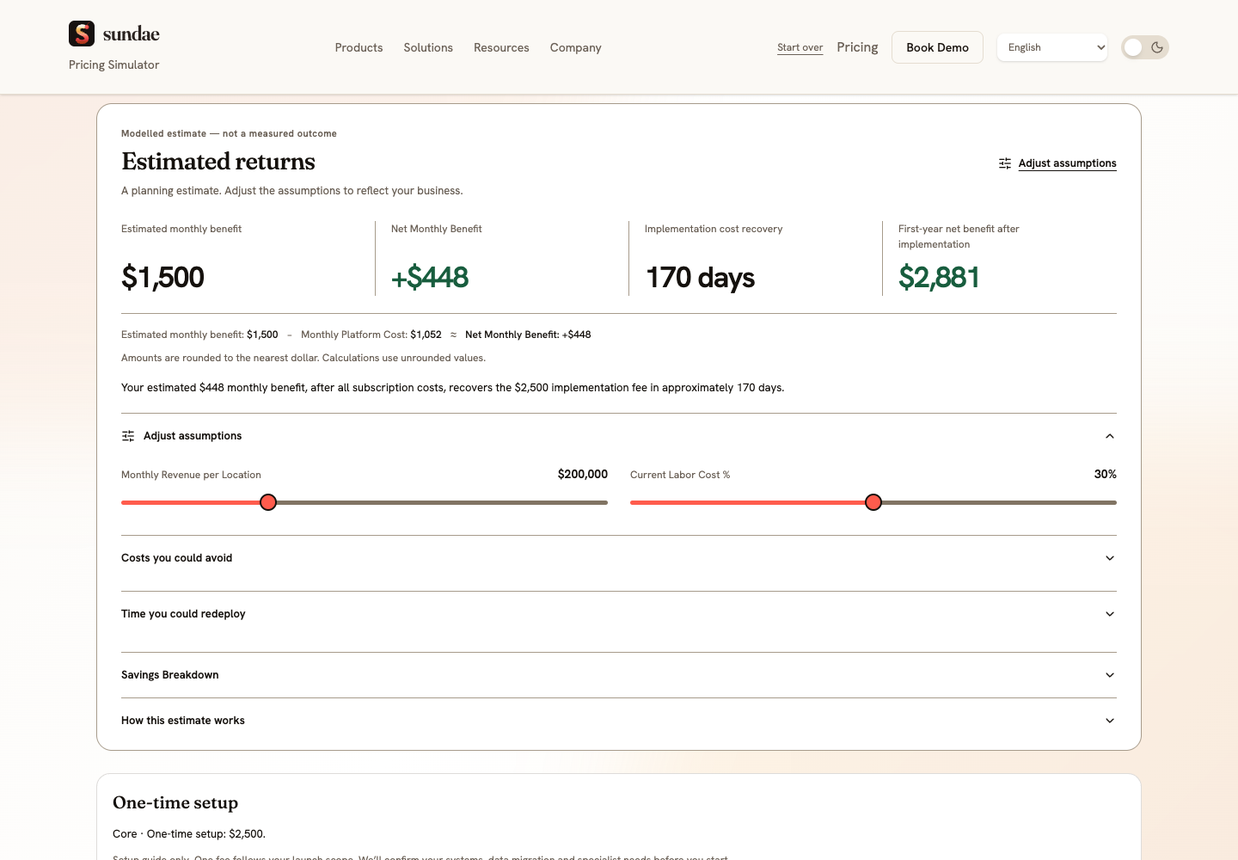
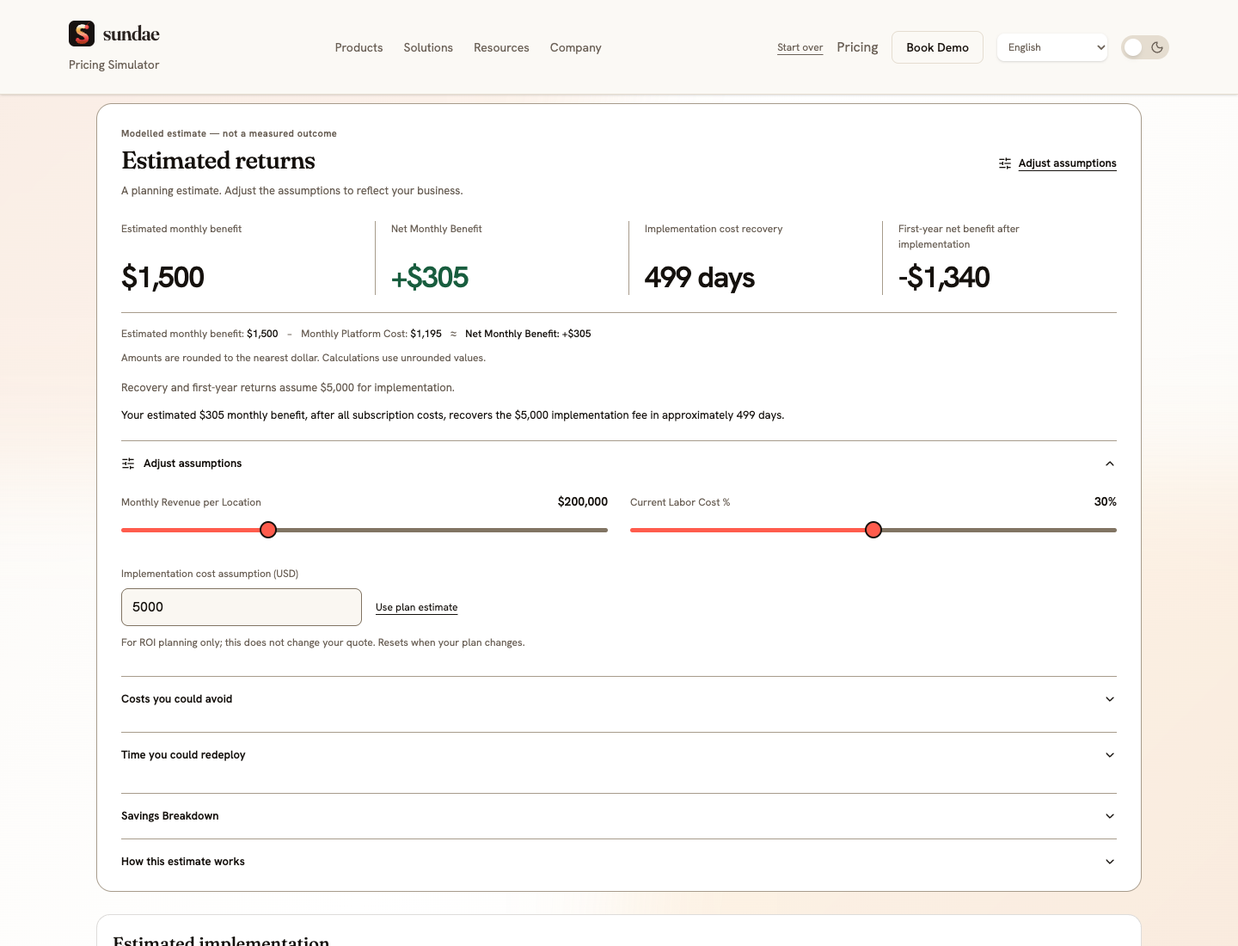
refine(pricing): separate implementation estimates from ROI assumptions (#60)

diff --git a/src/lib/implementationPlanningCopy.ts b/src/lib/implementationPlanningCopy.ts
@@ -1,0 +1,34 @@
+import type { PricingLocale } from './locales';
+
+// Estimate presentation and ROI assumptions; never changes the published fee policy.
+const packs: Record<PricingLocale, readonly [string, string, string, string, string, string, string]> = {
+  en: ['Estimated implementation', 'One shared setup fee. Final fee confirmed after reviewing your systems, migration and rollout scope.', 'Implementation cost assumption (USD)', 'For ROI planning only; this does not change your quote. Resets when your plan changes.', 'Use plan estimate', 'Recovery and first-year returns assume {fee} for implementation.', 'Enter an implementation cost assumption to estimate recovery and first-year returns.'],
+  ar: ['تكلفة التنفيذ المقدّرة', 'رسوم إعداد مشتركة واحدة. تُؤكّد الرسوم النهائية بعد مراجعة أنظمتك ونقل البيانات ونطاق الإطلاق.', 'تكلفة التنفيذ المفترضة (دولار أمريكي)', 'لتخطيط العائد فقط؛ لا يغيّر عرض السعر. يُعاد ضبطه عند تغيير الباقة.', 'استخدام تقدير الباقة', 'يفترض حساب الاسترداد وعوائد السنة الأولى تكلفة تنفيذ قدرها {fee}.', 'أدخل تكلفة تنفيذ مفترضة لتقدير الاسترداد وعوائد السنة الأولى.'],
+  fr: ['Mise en œuvre estimée', 'Un seul forfait de mise en place partagé. Le montant final est confirmé après examen de vos systèmes, de la migration et du déploiement.', 'Coût de mise en œuvre supposé (USD)', 'Pour la simulation de rentabilité uniquement ; ne modifie pas votre devis. Réinitialisé si votre offre change.', 'Utiliser l’estimation de l’offre', 'Le délai de récupération et le résultat de première année supposent {fee} de mise en œuvre.', 'Saisissez un coût de mise en œuvre pour estimer la récupération et le résultat de première année.'],
+  es: ['Implementación estimada', 'Una única tarifa de puesta en marcha compartida. El importe final se confirma tras revisar sistemas, migración y despliegue.', 'Coste de implementación supuesto (USD)', 'Solo para simular el retorno; no cambia tu presupuesto. Se restablece al cambiar el plan.', 'Usar estimación del plan', 'La recuperación y el resultado del primer año suponen {fee} de implementación.', 'Introduce un coste de implementación para estimar la recuperación y el resultado del primer año.'],
+  de: ['Geschätzte Einführungskosten', 'Eine gemeinsame Einrichtungsgebühr. Der Endbetrag wird nach Prüfung Ihrer Systeme, Migration und Einführung bestätigt.', 'Angenommene Einführungskosten (USD)', 'Nur zur ROI-Planung; ändert Ihr Angebot nicht. Wird bei einem Planwechsel zurückgesetzt.', 'Planschätzung verwenden', 'Amortisation und Ergebnis im ersten Jahr setzen {fee} Einführungskosten voraus.', 'Geben Sie Einführungskosten ein, um Amortisation und Ergebnis im ersten Jahr zu schätzen.'],
+  nl: ['Geschatte invoeringskosten', 'Eén gedeelde opstartvergoeding. Het definitieve bedrag volgt na beoordeling van uw systemen, migratie en uitrol.', 'Aangenomen invoeringskosten (USD)', 'Alleen voor ROI-planning; wijzigt uw offerte niet. Wordt gereset als uw plan verandert.', 'Planraming gebruiken', 'Terugverdientijd en resultaat in het eerste jaar gaan uit van {fee} invoeringskosten.', 'Vul invoeringskosten in om de terugverdientijd en het resultaat in het eerste jaar te schatten.'],
+  pt: ['Implementação estimada', 'Uma única taxa de configuração partilhada. O valor final é confirmado após analisar os sistemas, a migração e o lançamento.', 'Custo de implementação assumido (USD)', 'Apenas para planear o retorno; não altera o orçamento. Repõe-se ao alterar o plano.', 'Usar estimativa do plano', 'A recuperação e o resultado do primeiro ano pressupõem {fee} de implementação.', 'Introduza um custo de implementação para estimar a recuperação e o resultado do primeiro ano.'],
+  hi: ['अनुमानित कार्यान्वयन लागत', 'साझा सेटअप का एक शुल्क। सिस्टम, डेटा माइग्रेशन और रोलआउट की समीक्षा के बाद अंतिम शुल्क तय होगा।', 'अनुमानित कार्यान्वयन लागत (USD)', 'केवल ROI योजना के लिए; इससे आपका कोट नहीं बदलता। प्लान बदलने पर रीसेट होता है।', 'प्लान का अनुमान उपयोग करें', 'वसूली और पहले वर्ष के लाभ में कार्यान्वयन लागत {fee} मानी गई है।', 'वसूली और पहले वर्ष के लाभ का अनुमान लगाने के लिए कार्यान्वयन लागत दर्ज करें।'],
+  ur: ['تخمینی نفاذ لاگت', 'مشترکہ سیٹ اپ کی ایک فیس۔ سسٹمز، ڈیٹا منتقلی اور اجرا کے دائرے کی جانچ کے بعد حتمی فیس طے ہوگی۔', 'فرض کردہ نفاذ لاگت (USD)', 'صرف ROI کی منصوبہ بندی کے لیے؛ آپ کا کوٹ تبدیل نہیں ہوتا۔ پلان بدلنے پر ری سیٹ ہوتا ہے۔', 'پلان کا تخمینہ استعمال کریں', 'واپسی اور پہلے سال کے فائدے میں نفاذ کی لاگت {fee} فرض کی گئی ہے۔', 'واپسی اور پہلے سال کے فائدے کا تخمینہ لگانے کے لیے نفاذ کی لاگت درج کریں۔'],
+  it: ['Implementazione stimata', 'Un solo costo di configurazione condiviso. Il totale finale è confermato dopo la verifica di sistemi, migrazione e avvio.', 'Costo di implementazione ipotizzato (USD)', 'Solo per pianificare il ROI; non modifica il preventivo. Si azzera quando cambia il piano.', 'Usa la stima del piano', 'Il recupero e il risultato del primo anno ipotizzano {fee} di implementazione.', 'Inserisci un costo di implementazione per stimare il recupero e il risultato del primo anno.'],
+  pl: ['Szacowany koszt wdrożenia', 'Jedna wspólna opłata wdrożeniowa. Ostateczna kwota po analizie systemów, migracji i zakresu uruchomienia.', 'Zakładany koszt wdrożenia (USD)', 'Tylko do planowania ROI; nie zmienia wyceny. Resetuje się po zmianie planu.', 'Użyj szacunku planu', 'Zwrot i wynik pierwszego roku zakładają koszt wdrożenia {fee}.', 'Wpisz koszt wdrożenia, aby oszacować zwrot i wynik pierwszego roku.'],
+  tr: ['Tahmini uygulama maliyeti', 'Tek bir ortak kurulum ücreti. Son ücret sistemleriniz, veri geçişi ve yaygınlaştırma kapsamı incelendikten sonra doğrulanır.', 'Varsayılan uygulama maliyeti (USD)', 'Yalnızca ROI planlaması içindir; teklifinizi değiştirmez. Plan değişince sıfırlanır.', 'Plan tahminini kullan', 'Geri kazanım ve ilk yıl getirisi {fee} uygulama maliyetine dayanır.', 'Geri kazanımı ve ilk yıl getirisini tahmin etmek için uygulama maliyetini girin.'],
+  'zh-Hans': ['预计实施费用', '共享设置仅收取一次费用。审核系统、数据迁移和部署范围后确认最终费用。', '假定实施费用（美元）', '仅用于投资回报测算，不会更改报价。更改方案时重置。', '使用方案估算', '费用回收和首年收益以实施费用 {fee} 为假设。', '输入假定实施费用，以估算回收周期和首年收益。'],
+  ja: ['導入費用の見積もり', '共通の設定作業は一度だけ請求します。システム、データ移行、展開範囲を確認後に最終費用を確定します。', '想定導入費用（米ドル）', 'ROI試算専用です。見積価格は変わりません。プラン変更時にリセットされます。', 'プランの見積額を使用', '回収期間と初年度便益は導入費用 {fee} を想定しています。', '回収期間と初年度便益の試算に使う導入費用を入力してください。'],
+  ko: ['예상 구축 비용', '공통 설정 비용은 한 번만 청구합니다. 시스템, 데이터 이전 및 도입 범위를 검토한 후 최종 금액을 확정합니다.', '가정한 구축 비용 (USD)', 'ROI 계획용이며 견적은 변경되지 않습니다. 요금제 변경 시 초기화됩니다.', '요금제 예상액 사용', '회수 기간과 첫해 편익은 구축 비용 {fee}을 가정합니다.', '회수 기간과 첫해 편익을 추정할 구축 비용을 입력하세요.'],
+  id: ['Estimasi biaya implementasi', 'Satu biaya penyiapan bersama. Biaya akhir dikonfirmasi setelah meninjau sistem, migrasi, dan cakupan peluncuran.', 'Asumsi biaya implementasi (USD)', 'Hanya untuk perencanaan ROI; tidak mengubah penawaran. Direset saat paket berubah.', 'Gunakan estimasi paket', 'Pengembalian dan manfaat tahun pertama mengasumsikan biaya implementasi {fee}.', 'Masukkan asumsi biaya implementasi untuk memperkirakan pengembalian dan manfaat tahun pertama.'],
+  vi: ['Chi phí triển khai ước tính', 'Một khoản phí thiết lập chung. Phí cuối cùng được xác nhận sau khi xem xét hệ thống, di chuyển dữ liệu và phạm vi triển khai.', 'Chi phí triển khai giả định (USD)', 'Chỉ để lập kế hoạch ROI; không thay đổi báo giá. Đặt lại khi thay đổi gói.', 'Dùng ước tính của gói', 'Thu hồi và lợi ích năm đầu giả định chi phí triển khai {fee}.', 'Nhập chi phí triển khai giả định để ước tính thu hồi và lợi ích năm đầu.'],
+  ro: ['Cost estimat al implementării', 'O singură taxă de configurare comună. Costul final se confirmă după analiza sistemelor, migrării și lansării.', 'Cost presupus al implementării (USD)', 'Doar pentru planificarea ROI; nu modifică oferta. Se resetează când schimbați planul.', 'Folosește estimarea planului', 'Recuperarea și rezultatul primului an presupun {fee} pentru implementare.', 'Introduceți un cost de implementare pentru a estima recuperarea și rezultatul primului an.'],
+  sv: ['Beräknad införandekostnad', 'En gemensam startavgift. Slutlig avgift bekräftas efter genomgång av system, migrering och utrullning.', 'Antagen införandekostnad (USD)', 'Endast för ROI-planering; ändrar inte offerten. Återställs när planen ändras.', 'Använd planens uppskattning', 'Återbetalning och första årets nytta antar en införandekostnad på {fee}.', 'Ange en införandekostnad för att uppskatta återbetalning och första årets nytta.'],
+  bn: ['আনুমানিক বাস্তবায়ন খরচ', 'একটি যৌথ সেটআপ ফি। সিস্টেম, ডেটা স্থানান্তর ও চালুর পরিধি পর্যালোচনার পরে চূড়ান্ত ফি নিশ্চিত হবে।', 'ধরা বাস্তবায়ন খরচ (USD)', 'শুধু ROI পরিকল্পনার জন্য; আপনার কোট বদলায় না। প্ল্যান বদলালে রিসেট হয়।', 'প্ল্যানের অনুমান ব্যবহার করুন', 'খরচ উসুল ও প্রথম বছরের সুবিধায় বাস্তবায়ন খরচ {fee} ধরা হয়েছে।', 'খরচ উসুল ও প্রথম বছরের সুবিধা অনুমান করতে বাস্তবায়ন খরচ লিখুন।'],
+  th: ['ค่าติดตั้งโดยประมาณ', 'ค่าตั้งค่าร่วมเพียงครั้งเดียว ยืนยันราคาสุดท้ายหลังตรวจสอบระบบ การย้ายข้อมูล และขอบเขตการเริ่มใช้งาน', 'สมมติฐานค่าติดตั้ง (USD)', 'ใช้วางแผน ROI เท่านั้น ไม่เปลี่ยนใบเสนอราคา รีเซ็ตเมื่อเปลี่ยนแผน', 'ใช้ประมาณการของแผน', 'การคืนทุนและผลตอบแทนปีแรกสมมติค่าติดตั้ง {fee}', 'ระบุค่าติดตั้งสมมติเพื่อประมาณการคืนทุนและผลตอบแทนปีแรก'],
+  ms: ['Anggaran kos pelaksanaan', 'Satu fi persediaan bersama. Fi akhir disahkan selepas menyemak sistem, migrasi dan skop pelancaran.', 'Andaian kos pelaksanaan (USD)', 'Untuk perancangan ROI sahaja; tidak mengubah sebut harga. Ditetapkan semula apabila pelan berubah.', 'Guna anggaran pelan', 'Pemulihan dan manfaat tahun pertama mengandaikan kos pelaksanaan {fee}.', 'Masukkan andaian kos pelaksanaan untuk menganggar pemulihan dan manfaat tahun pertama.'],
+  az: ['Təxmini tətbiq xərci', 'Bir ortaq quraşdırma haqqı. Son məbləğ sistemlər, məlumat köçürülməsi və tətbiq həcmi yoxlandıqdan sonra təsdiqlənir.', 'Fərz edilən tətbiq xərci (USD)', 'Yalnız ROI planlaması üçündür; qiymət təklifini dəyişmir. Plan dəyişdikdə sıfırlanır.', 'Plan təxminindən istifadə et', 'Geri qazanılma və ilk ilin faydası {fee} tətbiq xərci fərz edir.', 'Geri qazanılma və ilk ilin faydasını hesablamaq üçün tətbiq xərcini daxil edin.'],
+  ru: ['Оценка стоимости внедрения', 'Единая плата за общую настройку. Окончательная сумма подтверждается после проверки систем, миграции и объёма запуска.', 'Предполагаемая стоимость внедрения (USD)', 'Только для расчёта ROI; не меняет ценовое предложение. Сбрасывается при смене плана.', 'Использовать оценку плана', 'Окупаемость и выгода первого года рассчитаны при стоимости внедрения {fee}.', 'Введите стоимость внедрения для оценки окупаемости и выгоды первого года.'],
+  pap: ['Kosto di implementashon estimá', 'Un solo pago pa konfigurashon kompartí. E pago final ta wordu konfirmá despues di revisá sistemanan, migrashon i lansamentu.', 'Kosto di implementashon suponé (USD)', 'Pa planifiká ROI so; no ta kambia bo kotisashon. Ta reset ora bo kambia plan.', 'Usa estimashon di plan', 'Recuperashon i benefisio di promé aña ta suponé {fee} pa implementashon.', 'Yena un kosto di implementashon pa estimá recuperashon i benefisio di promé aña.'],
+};
+export function getImplementationPlanningCopy(locale: PricingLocale) {
+  const [estimatedSetup, scopeNote, assumptionLabel, planningNote, reset, assumptionSummary, needsAssumption] = packs[locale];
+  return { estimatedSetup, scopeNote, assumptionLabel, planningNote, reset, assumptionSummary, needsAssumption };
+}

diff --git a/src/components/PricingDisplay/ROISimulator.tsx b/src/components/PricingDisplay/ROISimulator.tsx
@@ -9,24 +9,38 @@ import { getRoiPresentationCopy } from '../../lib/roiPresentationCopy';
 import { formatMessage, getRoiCopy } from '../../lib/pricingUiCopy';
 import { getQuoteSummaryCopy } from '../../lib/quoteSummaryCopy';
 import { corePackages } from '../../data/pricing';
+import { getImplementationPlanningCopy } from '../../lib/implementationPlanningCopy';
+import type { BasketQuote } from '../../lib/basketQuote';
 
 /** Results remain visible; assumptions and methodology expand independently. */
 export function ROISimulator() {
+  const { quote, config } = useBuyerQuote();
+  // A custom planning cost belongs to this quote only, never a different plan
+  // or a newly published implementation policy. It is not a handoff field.
+  return <ROIWorkspace key={JSON.stringify([config, quote.implementation])} pricing={quote}/>;
+}
+
+function ROIWorkspace({ pricing }: { pricing: BasketQuote }) {
   const { locale } = useLocale();
   const copy = getRoiCopy(locale);
   const ui = getRoiPresentationCopy(locale);
   const economicsCopy = getRoiEconomicsCopy(locale);
+  const setupCopy = getImplementationPlanningCopy(locale);
   const q = getQuoteSummaryCopy(locale);
   const { layer, corePackage, locations, watchtowerModules, roiInputs, setROIInputs } = useConfiguration();
-  const { quote: pricing } = useBuyerQuote();
   const headingId = useId();
+  const setupInputId = useId();
+  const [setupDraft, setSetupDraft] = useState<string | null>(null);
   // Round presentation only; model inputs, net benefit and recovery keep their precision.
   const wholeDollars = (amount: number) => Math.sign(amount) * Math.round(Math.abs(amount)) || 0;
   const moneyFormat = new Intl.NumberFormat(locale, { style: 'currency', currency: 'USD', minimumFractionDigits: 0, maximumFractionDigits: 0 });
   const signedMoneyFormat = new Intl.NumberFormat(locale, { style: 'currency', currency: 'USD', minimumFractionDigits: 0, maximumFractionDigits: 0, signDisplay: 'exceptZero' });
   const money = (amount: number) => moneyFormat.format(wholeDollars(amount));
   const activeDomains = (corePackages[corePackage]?.includesDomainModules ?? []) as readonly string[];
-  const implementationCost = pricing.implementation.requiresScoping || pricing.implementation.isFloor ? null : pricing.implementation.fee;
+  const planImplementationCost = pricing.implementation.requiresScoping || pricing.implementation.isFloor ? null : pricing.implementation.fee;
+  const enteredCost = setupDraft === null || setupDraft.trim() === '' ? null : Number(setupDraft);
+  const implementationCost = setupDraft === null ? planImplementationCost
+    : enteredCost !== null && Number.isFinite(enteredCost) && enteredCost >= 0 ? enteredCost : null;
   const roi = useROICalculation(
     { layer: layer === 'core' || layer === 'both' ? 'core' : null, corePackage, locations, activeDomains: [...activeDomains], watchtowerModules },
     roiInputs,
@@ -64,6 +78,7 @@ export function ROISimulator() {
     </dl>
     <p className="roi-equation"><span>{ui.monthlyBenefit}: <bdi>{money(roi.monthlyFunding)}</bdi></span><span aria-hidden>−</span><span>{copy.monthlyPlatformCost}: <bdi>{money(pricing.monthly)}</bdi></span><span aria-hidden>≈</span><strong>{copy.netMonthlyBenefit}: <bdi>{signedMoney(roi.monthlyNetBenefit)}</bdi></strong></p>
     <p className="roi-rounding-note">{ui.roundingNote}</p>
+    <p className="roi-setup-note" data-testid="roi-setup-assumption">{implementationCost === null ? setupCopy.needsAssumption : formatMessage(setupCopy.assumptionSummary, { fee: money(implementationCost) })}</p>
     {recoveryExplanation && <p className="roi-recovery-note" data-testid="roi-recovery-explanation">{recoveryExplanation}</p>}
     {roi.monthlyNetBenefit <= 0 && <p className="roi-shortfall-note">{copy.roiDescriptions.longTerm}</p>}
 
@@ -76,6 +91,11 @@ export function ROISimulator() {
         {activeDomains.includes('marketing') && <RangeField label={copy.monthlyMarketingSpend} min={0} max={10000} step={500} value={roiInputs.marketingSpend || 0} display={money(roiInputs.marketingSpend || 0)} onChange={value => setROIInputs({ marketingSpend: value })}/>}
         {activeDomains.includes('delivery') && <RangeField label={copy.deliveryRevenuePct} min={0} max={50} step={5} value={roiInputs.deliveryRevenuePct || 0} display={`${(roiInputs.deliveryRevenuePct || 0).toLocaleString(locale)}%`} onChange={value => setROIInputs({ deliveryRevenuePct: value })}/>}
         {activeDomains.includes('guest') && <div className="roi-toggle-field"><span>{copy.reviewData}</span><button type="button" aria-pressed={Boolean(roiInputs.hasReviewData)} onClick={() => setROIInputs({ hasReviewData: !roiInputs.hasReviewData })}>{roiInputs.hasReviewData ? copy.yes : copy.no}</button></div>}
+      </div>
+      <div className="roi-setup-control">
+        <div className="roi-number-field"><label htmlFor={setupInputId}>{setupCopy.assumptionLabel}</label><input id={setupInputId} data-testid="roi-setup-input" type="number" min={0} step="any" inputMode="decimal" aria-describedby={`${setupInputId}-note`} value={setupDraft ?? planImplementationCost ?? ''} onChange={event => setSetupDraft(event.target.value)}/></div>
+        <button type="button" disabled={setupDraft === null} onClick={() => setSetupDraft(null)}>{setupCopy.reset}</button>
+        <p id={`${setupInputId}-note`}>{setupCopy.planningNote}</p>
       </div>
       <details className="roi-disclosure roi-extra-inputs">
         <summary><span>{ui.cashTitle}</span><ChevronDown size={16} aria-hidden/></summary>

diff --git a/e2e/pricing-simulator.spec.ts b/e2e/pricing-simulator.spec.ts
@@ -365,6 +365,57 @@ test('returns stay visible while assumptions open independently and preserve the
   await expect(page.getByTestId('basket-total')).toContainText('$1,359.60');
   await expect(page.getByRole('button',{name:/Review your estimate/})).toHaveAttribute('aria-current','step');
 });
+test('implementation assumptions change only ROI and reset with the quote', async ({page}) => {
+  await page.goto(`/simulator?cfg=${encodePricingIntent({...base,locations:1})}`);
+  await page.getByRole('link',{name:'Adjust assumptions',exact:true}).click();
+  await page.getByRole('slider',{name:'Monthly Revenue per Location',exact:true}).fill('200000');
+  await page.getByRole('slider',{name:'Current Labor Cost %',exact:true}).fill('30');
+  const setup = page.getByTestId('roi-setup-input');
+  await expect(setup).toHaveValue('2500');
+  await expect(page.getByTestId('roi-payback')).toHaveText('250 days');
+  await setup.fill('5000');
+  await expect(page.getByTestId('roi-payback')).toHaveText('499 days');
+  await expect(page.getByTestId('roi-first-year-net')).toHaveText('-$1,340');
+  await expect(page.getByTestId('roi-monthly-net')).toHaveText('+$305');
+  await expect(page.getByTestId('roi-setup-assumption')).toContainText('$5,000');
+  await expect(page.locator('.basket-summary .setup-line')).toContainText('$2,500');
+  await expect(page.getByTestId('basket-total')).toContainText('$1,195');
+  await expect(page.getByTestId('setup-guide')).toContainText('Final fee confirmed');
+  await setup.fill('');
+  await expect(page.getByTestId('roi-first-year-net')).toHaveText('—');
+  await setup.fill('-1');
+  await expect(page.getByTestId('roi-first-year-net')).toHaveText('—');
+  await setup.fill('0');
+  await expect(page.getByTestId('roi-payback')).toHaveText('Immediate in this model');
+  await expect(page.getByTestId('roi-first-year-net')).toHaveText('$3,660');
+  await page.getByRole('button',{name:'Use plan estimate',exact:true}).click();
+  await expect(setup).toHaveValue('2500');
+  await expect(page.getByTestId('roi-payback')).toHaveText('250 days');
+  await setup.fill('5000');
+  await page.getByRole('button',{name:/Choose your plan/}).click();
+  await page.getByTestId('select-core_performance').click();
+  await page.getByRole('button',{name:/Review your estimate/}).click();
+  await page.getByRole('link',{name:'Adjust assumptions',exact:true}).click();
+  await expect(setup).toHaveValue('7500');
+});
+test('a floor-only setup quote needs an explicit ROI implementation assumption', async ({page}) => {
+  const floorPolicy = structuredClone(fixture);
+  floorPolicy.implementationClasses.class_b.isFloor = true;
+  await page.route('**/api/pricing/catalog/active*', route => route.fulfill({json:floorPolicy}));
+  await page.goto(`/simulator?cfg=${encodePricingIntent({...base,locations:1})}`);
+  await page.getByRole('link',{name:'Adjust assumptions',exact:true}).click();
+  await page.getByRole('slider',{name:'Monthly Revenue per Location',exact:true}).fill('200000');
+  await page.getByRole('slider',{name:'Current Labor Cost %',exact:true}).fill('30');
+  await expect(page.getByTestId('roi-setup-input')).toHaveValue('');
+  await expect(page.getByTestId('roi-first-year-net')).toHaveText('—');
+  await expect(page.getByTestId('roi-setup-assumption')).toContainText('Enter an implementation cost assumption');
+  await page.getByTestId('roi-setup-input').fill('5000');
+  await expect(page.getByTestId('roi-payback')).toHaveText('499 days');
+  await expect(page.locator('.basket-summary .setup-line')).toContainText('≥ $2,500');
+  await page.getByRole('button',{name:'Use plan estimate',exact:true}).click();
+  await expect(page.getByTestId('roi-setup-input')).toHaveValue('');
+  await expect(page.getByTestId('roi-first-year-net')).toHaveText('—');
+});
 test('refinement and review premium visual references', async ({page}) => {
   await page.setViewportSize({width:1440,height:1000});
   await page.goto(`/simulator?cfg=${encodePricingIntent({...base,layer:'both',corePackage:'core_margin',crewSkus:['crew_operations','crew_scheduling','crew_tna','crew_payroll'],employees:65,payrollCountry:'AE',operatingModels:['franchise'],addOns:['concept_franchise']})}`);

diff --git a/src/components/Pricing/PricingWorkspace.tsx b/src/components/Pricing/PricingWorkspace.tsx
@@ -8,6 +8,7 @@ import { calculateBasketQuote } from '../../lib/basketQuote';
 import { useBuyerQuote, useBuyerFormatting } from '../../hooks/useBuyerQuote';
 import { getAccessRequestCopy } from '../../lib/accessRequestCopy';
 import { getRoiPresentationCopy } from '../../lib/roiPresentationCopy';
+import { getImplementationPlanningCopy } from '../../lib/implementationPlanningCopy';
 import { demoUrl, accessRequestUrl } from '../../lib/pricingLinks';
 import { encodePricingIntent, INTENT_TERMS, INTENT_MODELS, MAX_EMPLOYEE_COUNT, SELF_SERVE_EMPLOYEE_LIMIT } from '../../lib/pricingIntent';
 import { localizeTierName, localizeModuleName, localizeBreakdownLabel, localizeWatchtowerName } from '../../lib/pricingI18n';
@@ -58,7 +59,7 @@ function useBuyerDiscount() {
 
 export function SetupGuide({ compact = false }: { compact?: boolean }) {
   const { config, quote, live } = useBuyerQuote();
-  const { copy, reviewCopy, money, locale } = useBuyerFormatting();
+  const { copy, money, locale } = useBuyerFormatting();
   const policy = pricingPolicyCopy[locale];
   const selectedCrewPreset = CREW_PRESETS.find((preset) => preset.skus.length === config.crewSkus.length && preset.skus.every((id) => config.crewSkus.includes(id)));
   const setupProduct = config.layer === 'core'
@@ -69,9 +70,9 @@ export function SetupGuide({ compact = false }: { compact?: boolean }) {
   const setupPublished = !live.catalog || live.policyCoverage?.implementation;
   const selectedSetup = quote.enterprise || quote.implementation.requiresScoping ? copy.scoped : `${quote.implementation.isFloor ? '≥ ' : ''}${money(quote.implementation.fee)}`;
   return <section className={`setup-guide ${compact ? 'is-compact' : ''}`} aria-label={copy.setup} data-testid="setup-guide">
-    <h3>{copy.setup}</h3>
+    <h3>{getImplementationPlanningCopy(locale).estimatedSetup}</h3>
     <p>{setupProduct} · {copy.setup}: {setupPublished ? selectedSetup : copy.scoped}.</p>
-    <p className="pricing-caption">{reviewCopy.setupNote}</p>
+    <p className="pricing-caption">{getImplementationPlanningCopy(locale).scopeNote}</p>
     {!compact && setupPublished && <details className="pricing-disclosure"><summary>{copy.setup}<ChevronDown size={16} aria-hidden/></summary>
       {IMPLEMENTATION_CLASS_ORDER.map((id, i) => <div key={id} className="band-line"><span>{policy.classes[i].replace(/^[A-D]\s*[·-]\s*/, '')}</span><strong>{implementationClasses[id].isFloor ? '≥ ' : ''}{money(implementationClasses[id].fee)}</strong></div>)}
     </details>}
@@ -252,7 +253,8 @@ export function BasketSummary({ compact = false, showReturnsLink = false }: { co
       {!quote.enterprise && quote.employeeOverage > 0 && <div><span>{copy.overage}</span><strong>{money(quote.employeeOverage)}</strong></div>}
     </div>
     {!quote.enterprise && <div className="payment-line"><span>{copy.payment}<small>{copy.terms[INTENT_TERMS.indexOf(config.billingCycle)]}</small></span><strong>{money(quote.paymentAmount)}</strong></div>}
-    <div className="setup-line"><span>{copy.setup}</span><strong>{quote.enterprise || quote.implementation.requiresScoping ? copy.scoped : `${quote.implementation.isFloor ? '≥ ' : ''}${money(quote.implementation.fee)}`}</strong></div>
+    <div className="setup-line"><span>{getImplementationPlanningCopy(locale).estimatedSetup}</span><strong>{quote.enterprise || quote.implementation.requiresScoping ? copy.scoped : `${quote.implementation.isFloor ? '≥ ' : ''}${money(quote.implementation.fee)}`}</strong></div>
+    {showReturnsLink && <p className="pricing-caption setup-scope-note">{getImplementationPlanningCopy(locale).scopeNote}</p>}
     {(quote.crew || quote.specialistScoping) && <ul className="scope-notes pricing-caption">
       {quote.crew && config.employees !== null && <li>{copy.workforce}: {config.employees}</li>}
       {quote.crew && <li>{quote.enterprise ? <>{copy.overage}: {copy.scoped}</> : <>{quote.includedEmployees} {copy.allowance} · {money(quote.employeeRate)} {copy.perEmployee}</>}</li>}

diff --git a/src/index.css b/src/index.css
@@ -990,6 +990,12 @@ button:disabled { opacity:.45; cursor:not-allowed; }
 .roi-equation { display:flex; flex-wrap:wrap; align-items:baseline; gap:6px 10px; font-size:12px; line-height:1.7; padding-block:14px; border-top:1px solid var(--roi-border); color:var(--color-sundae-muted); }
 .roi-equation bdi, .roi-equation strong { color:var(--color-sundae-text); font-variant-numeric:tabular-nums; font-weight:500; }
 .roi-rounding-note { color:var(--color-sundae-muted); font-size:12px; line-height:1.6; margin-top:-6px; margin-bottom:14px; }
+.roi-setup-note { color:var(--color-sundae-muted); font-size:13px; line-height:1.7; margin-bottom:10px; }
+.roi-setup-control { display:grid; grid-template-columns:minmax(0,280px) auto; justify-content:start; align-items:end; gap:10px 16px; padding-block:16px; }
+.roi-setup-control > button { min-height:44px; font-size:12px; text-align:start; text-decoration:underline; text-underline-offset:4px; cursor:pointer; }
+.roi-setup-control > button:disabled { color:var(--color-sundae-muted); cursor:default; text-decoration:none; }
+.roi-setup-control > p { grid-column:1 / -1; max-width:640px; color:var(--color-sundae-muted); font-size:12px; line-height:1.65; }
+.setup-scope-note { margin-block:10px 0; }
 .roi-recovery-note, .roi-shortfall-note { font-size:13px; line-height:1.7; margin-bottom:18px; max-width:900px; }
 .roi-shortfall-note { color:var(--roi-warning); }
 .roi-disclosure { border:0; border-top:1px solid var(--roi-border); font-size:13px; }
@@ -1053,6 +1059,7 @@ button:disabled { opacity:.45; cursor:not-allowed; }
   .roi-equation { display:grid; grid-template-columns:minmax(0,1fr); gap:4px; }
   .roi-equation > span[aria-hidden] { display:none; }
   .roi-input-grid, .roi-method-values { grid-template-columns:minmax(0,1fr); gap:14px; }
+  .roi-setup-control { grid-template-columns:minmax(0,1fr); gap:8px; }
   .roi-range-field input[type=range] { height:44px; }
 }
 @media (prefers-reduced-motion:reduce) { .roi-disclosure > summary > svg { transition:none; } }
